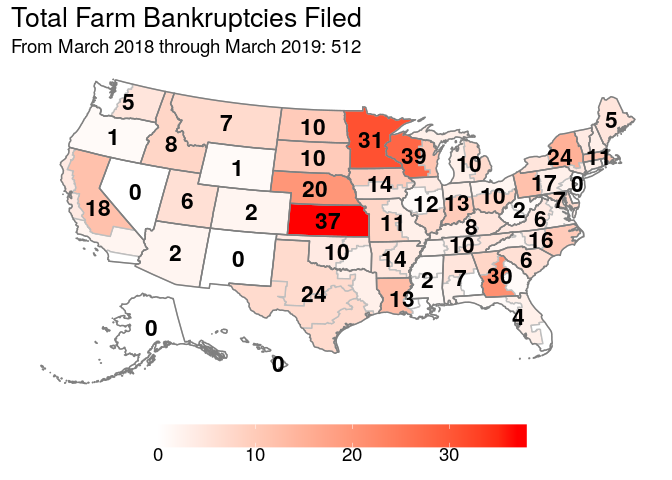
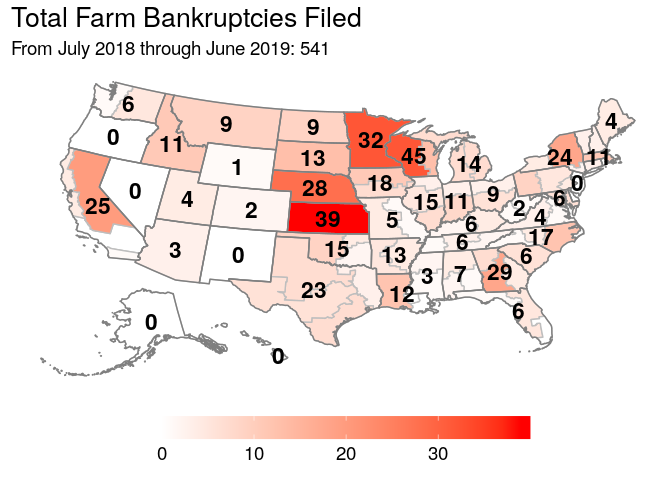
updated eda captions and order

diff --git a/2-eda/2-eda-maps.md b/2-eda/2-eda-maps.md
@@ -1,3 +1,14 @@
+Most recent data
+================
+
+<img src="2-eda-maps_files/figure-markdown_github/recent-1.png" width="100%" height="100%" />
+
+<img src="2-eda-maps_files/figure-markdown_github/recent-rate-1.png" width="100%" height="100%" />
+
+<img src="2-eda-maps_files/figure-markdown_github/recent-rate-state-1.png" width="100%" height="100%" />
+
+<img src="2-eda-maps_files/figure-markdown_github/recent-change-1.png" width="100%" height="100%" />
+
 General Maps of Interest
 ========================
 
@@ -34,10 +45,3 @@ separately to combined reporting):
 Animated, but with red scale:
 
 <img src="2-eda-maps_files/figure-markdown_github/animate-albers-red-1.gif" width="100%" height="100%" />
-
-Most recent data
-================
-
-<img src="2-eda-maps_files/figure-markdown_github/recent-1.png" width="100%" height="100%" />
-
-<img src="2-eda-maps_files/figure-markdown_github/recent-change-1.png" width="100%" height="100%" />

diff --git a/2-eda/2-eda-time.md b/2-eda/2-eda-time.md
@@ -1,10 +1,12 @@
 # General Figures of Interest
 
-## Individual Series
+## Chapter 12 Filings since passage in 1986
 
 <img src="2-eda-time_files/figure-gfm/national-annual-1.png" width="100%" height="100%" /><img src="2-eda-time_files/figure-gfm/national-annual-2.png" width="100%" height="100%" />
 
 <img src="2-eda-time_files/figure-gfm/national-quarter-1.png" width="100%" height="100%" /><img src="2-eda-time_files/figure-gfm/national-quarter-2.png" width="100%" height="100%" />
+
+## Chapter 12 Filings since Bankruptcy Abuse Prevention and Consumer Protection Act of 2005
 
 <img src="2-eda-time_files/figure-gfm/qtrly-bapcpa-1.png" width="100%" height="100%" />
 

diff --git a/2-eda/README.md b/2-eda/README.md
@@ -1,6 +1,7 @@
 # EDA Folder
 
-General figures which update along with new bankruptcy data.
+General figures which update along with new bankruptcy data. Full size figures can also be found in the [figures](https://github.com/rdinter/historical-bankruptcies/tree/master/2-eda/figures) folder on GitHub.
 
-[Maps](2-eda-maps)
-[Time](2-eda-time)
+- [National Time Series](2-eda-time) of chapter 12 filings. From 1986 onward as well as 2005 onward to reflect the BAPCPA influence. 
+- [National Maps](2-eda-maps) of chapter 12 filings by either court districts or state.
+
